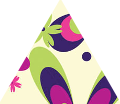
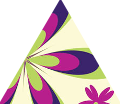
remove default pattern

diff --git a/src/scope/ScopeView.js b/src/scope/ScopeView.js
@@ -11,7 +11,7 @@ class ScopeView extends React.Component {
     this.state = {
       screen: screen.width,
       window: window.innerWidth,
-      pattern: process.env.PUBLIC_URL + '/cells/cell_1_1.png'
+      pattern: ''
     };
 
     this.changePattern = this.changePattern.bind(this);
@@ -27,9 +27,7 @@ class ScopeView extends React.Component {
   }
 
   componentDidMount() {
-    if (this.props.params.patternId) {
-      this.setState({pattern: process.env.PUBLIC_URL + '/cells/cell_' + this.props.params.patternId +'_1.png'});
-    }
+    this.setState({pattern: process.env.PUBLIC_URL + '/cells/cell_' + this.props.params.patternId +'_1.png'});
     window.addEventListener('resize', this.updateWidth);
   }
 

diff --git a/src/index.js b/src/index.js
@@ -12,7 +12,6 @@ ReactDOM.render(
     <Router history={browserHistory}>
       <Route path="/" component={App}>
         <IndexRoute component={PatternView} />
-        <Route path="scope" component={ScopeView} />
         <Route path="scope/:patternId" component={ScopeView} />
       </Route>
     </Router>
